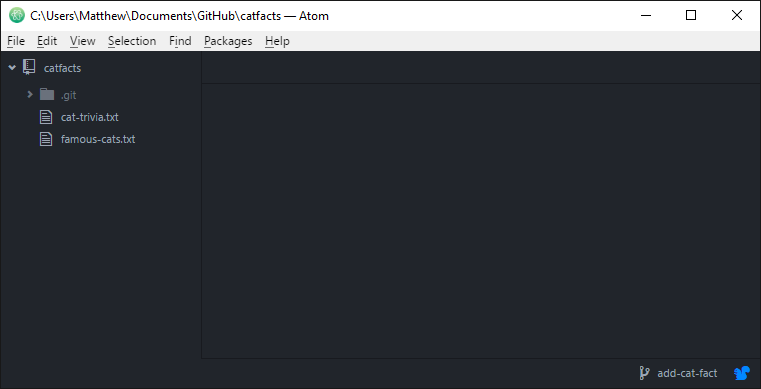
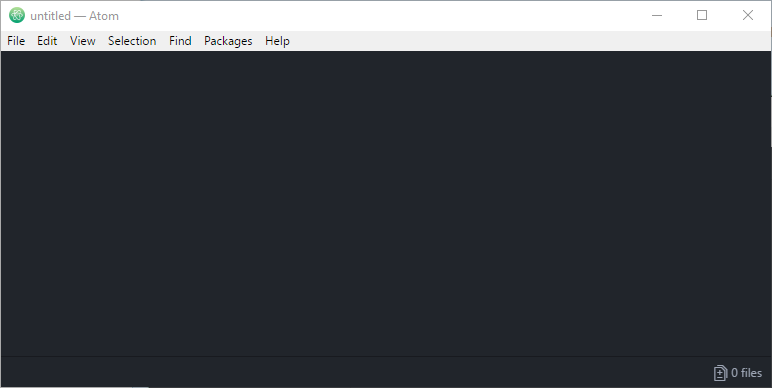
update activity 3

diff --git a/course/3/git/index.html b/course/3/git/index.html
@@ -123,7 +123,11 @@
 
 <p>This is an app that works with the Github website.</p>
 
-<p>Download <a href="http://desktop.github.com" target="_blank">Github Desktop</a> if you haven't already. Install it, and log in with your new Github user name and password.</p>
+<p>Download <a href="http://desktop.github.com" target="_blank">Github Desktop</a> if you haven't already.</p>
+
+<p>Install it.</p>
+
+<p>When it finishes installing, open it and <b>log in</b> using your new Github user name and password.</p>
 
 <h2>Part 4: Cloning</h2>
 
@@ -174,7 +178,7 @@
 
 <img class="framed" src="changes.png">
 
-<p>When you make changes, the changes will appear in GitHub Desktop so you can <b>commit</b> them and <b>sync</b> them.</p>
+<p>When you make changes, the changes will appear in GitHub Desktop so you can <b>commit</b> them and <b>push</b> them.</p>
 
 <h3>Choose a task</h3>
 
@@ -206,22 +210,26 @@
     <img src="branches.jpg">    
 </div>
 
-<p>Github Desktop lets us see our changes, but it's not for making changes. To actually make changes, we will use <b>Atom</b></p>
+<p>Github Desktop lets us see our changes, but it's not for making changes. To actually make changes, we will use Atom.</p>
 
-<p>Open Atom, and choose File… Open Folder… open the folder where you saved the project. (It's probably in <b>My&nbsp;Documents\GitHub\catfacts</b>)</p>
-
-<img class="framed" src="atom-open-folder.png" width="50%">
+<p>Open <b>Atom</b>.</p>
 
 <div class="alert">
     <p>The first time you use Atom, it comes with a lot of 'Welcome' and 'Welcome Guide' tabs open. Close all these to give yourself more room! Your Atom should look nice and empty, like this:</p>
     <img class="framed" src="atom-nice-and-empty.png">   
 </div>
 
-<p>Atom is a text editor (just like Microsoft Word or Pages for Mac).</p>
+<p>Choose File… Open Folder… open the folder where you saved the project. (It's probably in <b>My&nbsp;Documents\GitHub\catfacts</b>)</p>
 
-<p>Use Atom to make the changes for your assigned task.</p>
+<img class="framed" src="atom-open-folder.png">
 
-<p>You need to save your changes by pressing Ctrl+S or clicking File -> Save. This blue dot appears when you have unsaved changes:</p>
+<p>Atom is a text editor (just like Microsoft Word or Pages for Mac). Select the file you're working on on the left-hand side.</p>
+
+<img class="framed" src="atom-choose-file.png">
+
+<p>Make the changes for your assigned task.</p>
+
+<p>You need to save your changes by pressing Ctrl+S or clicking File -> Save. This blue dot appears if you have unsaved changes:</p>
 
 <img class="framed" src="atom-unsaved-changes.png"> 
 
@@ -273,11 +281,11 @@
 
 <img class="framed" src="create-pull-request-website.png">
 
-<p>Now ask Alice or Matthew to merge your pull request.</p>
+<p>Now ask one of our mentors to merge your pull request.</p>
 
 <h2>Part 8: Look at the new version</h2>
 
-<p>Once your change has been merged, go to Github Desktop and switch back to the master branch by clicking 'Branch' then 'master'.</p>
+<p>Once your change has been merged, go to Github Desktop and switch back to the master branch by clicking the 'Current branch' button and choosing 'master'.</p>
 
 <img class="framed" src="change-to-master-branch.png">
 
